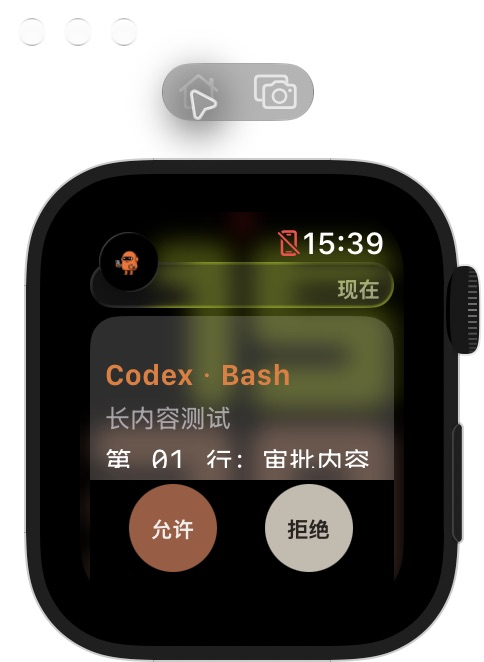
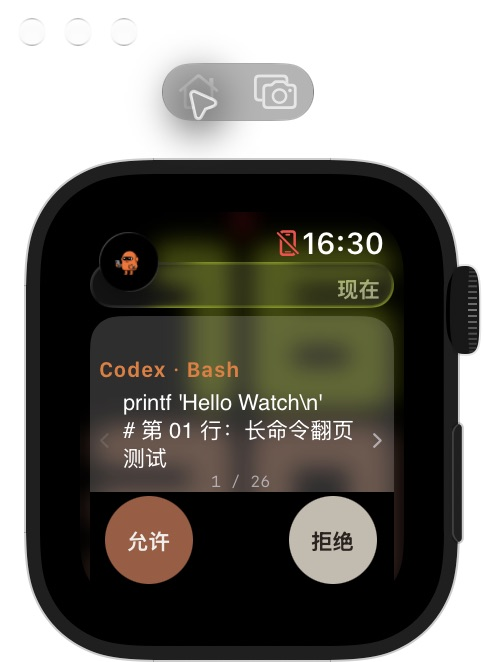
fix: page Watch notification details and space approval controls

Changed region(s): [[0.186, 0.5136, 0.8368, 0.9063], [0.5579, 0.3323, 0.7128, 0.3927], [0.7438, 0.3625, 0.8058, 0.3927]]

diff --git a/watch/ClaudeWatch watchOS/Views/ApprovalView.swift b/watch/ClaudeWatch watchOS/Views/ApprovalView.swift
@@ -1,4 +1,5 @@
 import SwiftUI
+import CoreText
 import ClawdWatchCore
 struct ApprovalView: View {
     let card: ApprovalCard
@@ -7,11 +8,37 @@ struct ApprovalView: View {
     var body: some View {
         GeometryReader { geometry in
           ZStack(alignment: .bottom) {
+            if compactNotification {
+                VStack(spacing: 3) {
+                    Text(card.agentName + " · " + card.toolName)
+                        .font(.system(size: 11, weight: .semibold))
+                        .foregroundStyle(Theme.Text.primary)
+                        .lineLimit(1).frame(maxWidth: .infinity, alignment: .leading)
+                    if let result = state.results[card.id] {
+                        VStack(spacing: 2) {
+                            Text(result.status.label).font(.caption2)
+                            if let message = result.message { Text(message).font(.caption2).lineLimit(2) }
+                            if let input = state.pending[card.id] {
+                                Button("查询决定回执") { Task { await state.lookup(input) } }
+                                    .font(.caption2)
+                            }
+                        }.frame(maxWidth: .infinity, maxHeight: .infinity)
+                    } else if !card.isActionable() {
+                        Text(card.desktopReason == nil ? "请求已过期，请刷新。" : "请在桌面处理。")
+                            .font(.caption2).frame(maxWidth: .infinity, maxHeight: .infinity)
+                    } else {
+                        NotificationDetailReader(text: ApprovalDetailText.readable(card.details)
+                            + "\n\n项目 / 会话\n" + (card.projectLabel.isEmpty ? card.sessionLabel : card.projectLabel))
+                            .id(card.id + ":" + card.revision)
+                    }
+                }.frame(width: geometry.size.width, height: max(0, geometry.size.height - 48))
+                 .frame(maxHeight: .infinity, alignment: .top)
+            } else {
             ScrollView {
                 VStack(alignment: .leading, spacing: compactNotification ? 4 : 10) {
                 Text(card.agentName + " · " + card.toolName).font(.caption).bold().foregroundStyle(Theme.Text.primary)
                 Text(card.projectLabel.isEmpty ? card.sessionLabel : card.projectLabel).font(.caption2).foregroundStyle(.secondary)
-                Text(card.details).font(.system(.caption, design: .monospaced)).frame(maxWidth: .infinity, alignment: .leading)
+                Text(ApprovalDetailText.readable(card.details)).font(.system(.caption, design: .monospaced)).frame(maxWidth: .infinity, alignment: .leading)
                 if let result = state.results[card.id] {
                     Text(result.status.label).foregroundStyle(result.status == .delivered ? Theme.Accent.success : Theme.Text.primary)
                     if let message = result.message { Text(message).font(.caption2) }
@@ -25,10 +52,13 @@ struct ApprovalView: View {
             }.frame(width: geometry.size.width, height: max(0, geometry.size.height - 54))
              .clipped()
              .frame(maxHeight: .infinity, alignment: .top)
-            HStack(spacing: 24) {
+            }
+            HStack {
                 decisionButton("允许", decision: .allow, color: Theme.DecisionButton.allow)
+                Spacer(minLength: 8)
                 decisionButton("拒绝", decision: .deny, color: Theme.DecisionButton.deny)
             }
+            .padding(.horizontal, 3)
             .padding(.vertical, 2)
             .frame(maxWidth: .infinity)
             .background(.black)
@@ -49,6 +79,58 @@ struct ApprovalView: View {
         .accessibilityLabel(decision == .allow ? "允许一次" : "拒绝")
         .disabled(!card.isActionable() || state.results[card.id] != nil)
         .opacity(card.isActionable() && state.results[card.id] == nil ? 1 : 0.4)
+    }
+}
+
+
+/// The system long-look already owns vertical scrolling. Large tap targets avoid
+/// a second competing scroll view and keep the decision controls in place.
+private struct NotificationDetailReader: View {
+    let text: String
+    @State private var page = 0
+    private let font = CTFontCreateWithName("SFMono-Regular" as CFString, 11, nil)
+
+    var body: some View {
+        GeometryReader { geometry in
+            let pages = ApprovalDetailText.pages(text, width: max(1, geometry.size.width - 24), linesPerPage: 3) {
+                let attributes = [kCTFontAttributeName as NSAttributedString.Key: font]
+                let line = CTLineCreateWithAttributedString(NSAttributedString(string: $0, attributes: attributes))
+                return CTLineGetTypographicBounds(line, nil, nil, nil)
+            }
+            let current = min(page, pages.count - 1)
+            ZStack {
+                VStack(alignment: .leading, spacing: 0) {
+                    ForEach(Array(pages[current].enumerated()), id: \.offset) { _, line in
+                        Text(line.isEmpty ? " " : line)
+                            .font(.custom(CTFontCopyPostScriptName(font) as String, fixedSize: 11))
+                            .lineLimit(1).frame(maxWidth: .infinity, alignment: .leading)
+                            .frame(height: 14)
+                    }
+                    Spacer(minLength: 0)
+                }.padding(.horizontal, 12).allowsHitTesting(false)
+                HStack(spacing: 0) {
+                    pageButton(symbol: "chevron.left", label: "上一页", enabled: current > 0) {
+                        page = max(0, current - 1)
+                    }
+                    pageButton(symbol: "chevron.right", label: "下一页", enabled: current + 1 < pages.count) {
+                        page = min(pages.count - 1, current + 1)
+                    }
+                }
+                Text("\(current + 1) / \(pages.count)")
+                    .font(.system(size: 8, design: .monospaced)).foregroundStyle(.secondary)
+                    .frame(maxHeight: .infinity, alignment: .bottom).allowsHitTesting(false)
+            }.clipped()
+        }.onChange(of: text) { _, _ in page = 0 }
+    }
+    private func pageButton(symbol: String, label: String, enabled: Bool, action: @escaping () -> Void) -> some View {
+        Button(action: action) {
+            Image(systemName: symbol).font(.system(size: 9, weight: .semibold))
+                .foregroundStyle(.secondary).opacity(enabled ? 1 : 0.2)
+                .frame(maxWidth: .infinity, maxHeight: .infinity,
+                       alignment: symbol == "chevron.left" ? .leading : .trailing)
+                .contentShape(Rectangle())
+        }.buttonStyle(.plain).accessibilityLabel(label)
+         .accessibilityHint("点详情左半边返回，右半边继续")
     }
 }
 
@@ -79,7 +161,7 @@ struct ApprovalNotificationView: View {
             }
           }
         }
-        .frame(height: 110)
+        .frame(height: 116)
         .task(id: requestID) { await load() }
     }
     @MainActor private func load() async {

diff --git a/watch/Packages/ClawdWatchCore/Tests/ClawdWatchCoreTests/ApprovalDetailTextTests.swift b/watch/Packages/ClawdWatchCore/Tests/ClawdWatchCoreTests/ApprovalDetailTextTests.swift
@@ -1,0 +1,43 @@
+import XCTest
+@testable import ClawdWatchCore
+
+final class ApprovalDetailTextTests: XCTestCase {
+    func testCommandIsReadableFirstAndOriginalParametersRemainIntact() {
+        let raw = #"{"command":"printf 'hello\nworld'","cwd":"/tmp/demo","timeout":1000}"#
+        let text = ApprovalDetailText.readable(raw)
+        XCTAssertTrue(text.hasPrefix("printf 'hello\nworld'"))
+        XCTAssertTrue(text.hasSuffix(raw))
+        XCTAssertTrue(text.contains("完整参数"))
+    }
+
+    func testUnknownAndNonCommandInputStayExactlyAsReceived() {
+        for raw in ["{\n  \"file_path\": \"/tmp/demo\"\n}", "invalid { JSON", "plain\ntext", "", "[1,2]"] {
+            XCTAssertEqual(ApprovalDetailText.readable(raw), raw)
+        }
+    }
+
+    func testPagingDoesNotLoseLongCommandCharactersOrSplitEmoji() {
+        let input = "abcdefghijk👨👩👧👦审批xyz"
+        let pages = ApprovalDetailText.pages(input, width: 5, linesPerPage: 2) { Double($0.count) }
+        XCTAssertEqual(pages.flatMap { $0 }.joined(), input)
+        XCTAssertTrue(pages.allSatisfy { $0.count <= 2 })
+        XCTAssertTrue(pages.flatMap { $0 }.allSatisfy { $0.count <= 5 })
+        XCTAssertEqual(pages[1], ["k👨👩👧👦审批x", "yz"])
+    }
+
+    func testMeasuredWideCharactersWrapWithoutClippingOrDroppingBlankLines() {
+        let pages = ApprovalDetailText.pages("ab中d\n\n末尾\n", width: 3, linesPerPage: 2) { text in
+            text.reduce(0) { $0 + ($1.isASCII ? 1 : 2) }
+        }
+        XCTAssertEqual(pages, [["ab", "中d"], ["", "末"], ["尾", ""]])
+    }
+
+    func testEmptyOrExtremelyNarrowViewportStillHasAUsablePage() {
+        XCTAssertEqual(ApprovalDetailText.pages("", width: 0, linesPerPage: 0) { _ in 10 }, [[""]])
+        XCTAssertEqual(ApprovalDetailText.pages("中a", width: 1, linesPerPage: 1) { _ in 10 }, [["中"], ["a"]])
+    }
+}
+
+private extension Character {
+    var isASCII: Bool { unicodeScalars.allSatisfy { $0.isASCII } }
+}

diff --git a/watch/Packages/ClawdWatchCore/Sources/ClawdWatchCore/ApprovalDetailText.swift b/watch/Packages/ClawdWatchCore/Sources/ClawdWatchCore/ApprovalDetailText.swift
@@ -1,0 +1,32 @@
+import Foundation
+
+public enum ApprovalDetailText {
+    /// Show a shell command before the JSON envelope, while keeping every original parameter.
+    public static func readable(_ raw: String) -> String {
+        guard let data = raw.data(using: .utf8),
+              let object = try? JSONSerialization.jsonObject(with: data) as? [String: Any],
+              let command = object["command"] as? String, !command.isEmpty else { return raw }
+        return command + "\n\n完整参数\n" + raw
+    }
+
+    /// Wrap by the actual font measurement. Never split a grapheme or discard whitespace.
+    public static func pages(_ text: String, width: Double, linesPerPage: Int,
+                             measure: (String) -> Double) -> [[String]] {
+        var lines: [String] = []
+        for logicalLine in text.components(separatedBy: "\n") {
+            var line = ""
+            for character in logicalLine {
+                let next = line + String(character)
+                if !line.isEmpty && measure(next) > max(0, width) {
+                    lines.append(line)
+                    line = String(character)
+                } else { line = next }
+            }
+            lines.append(line)
+        }
+        let count = max(1, linesPerPage)
+        return stride(from: 0, to: lines.count, by: count).map {
+            Array(lines[$0..<min($0 + count, lines.count)])
+        }
+    }
+}

diff --git a/scripts/prepare-watch-layout-fixture.py b/scripts/prepare-watch-layout-fixture.py
@@ -19,8 +19,11 @@ card = {
     "agentId": "codex", "sessionLabel": "布局验证", "projectLabel": "长内容测试",
     "toolName": "Bash", "createdAtMs": 1000, "expiresAtMs": 9999999999999,
     "canDecide": True, "details": "\n".join(
-        [f"第 {i:02} 行：审批内容可以独立滚动。" for i in range(1, 41)] + ["内容末尾：固定按钮仍应可见"])
+        [f"第 {i:02} 行：审批内容可以完整阅读。" for i in range(1, 41)] + ["内容末尾：固定按钮仍应可见"])
 }
+if "--notification" in sys.argv:
+    card["details"] = json.dumps({"command": "printf 'Hello Watch\\n'\n" + "\n".join(
+        f"# 第 {i:02} 行：长命令翻页测试" for i in range(1, 21)), "cwd": "/tmp/demo", "timeout": 1000}, ensure_ascii=False, indent=2)
 literal = json.dumps(json.dumps(card, ensure_ascii=False), ensure_ascii=False)
 entry = '''@main
 struct ClaudeWatchWatchApp: App {

diff --git a/README.md b/README.md
@@ -11,7 +11,7 @@ Standalone Apple Watch approvals for Codex, Claude Code, DeepSeek Harness and Ki
 - Codex、Claude Code、DeepSeek Harness（DSH）、Kimi 审批接入。
 - Watch-only App；联网后直接连接 Mac，不依赖 iPhone 作为审批中继。
 - App 内审批详情可滚动，允许和拒绝圆按钮固定在底部。
-- 抬腕通知可以直接显示详情和审批按钮。系统通知及专注模式设置会影响展示。
+- 抬腕通知可以直接显示命令和审批按钮。长内容点详情区右半边翻到下一页、左半边返回，页码显示阅读进度；允许和拒绝圆按钮分列两侧。系统通知及专注模式设置会影响展示。
 - 每台设备独立配对凭据，手表凭据保存在 Keychain；请求有版本和过期时间。
 - 决定有 operation ID 和交付回执；响应丢失后查询同一决定，避免重复提交。
 - 推送仅带通用提示、请求 ID 和版本；命令详情通过鉴权连接读取。
@@ -134,7 +134,7 @@ cd build/clawd-on-desk
 npm test
 ```
 
-已在 Apple Watch 实机验证配对、Codex 审批回执、抬腕显示审批按钮和配色；真实 Claude 单次 Bash 测试也成功执行。四种 agent 的完整允许/拒绝矩阵、通知内长内容滚动及手机关闭后的纯蜂窝全过程仍需分别验收。模拟器截图使用离线样例，不包含真实审批内容。
+已在 Apple Watch 实机验证配对、Codex 审批回执、抬腕显示审批按钮和配色；真实 Claude 单次 Bash 测试也成功执行。四种 agent 的完整允许/拒绝矩阵、通知内长内容点按翻页已在 40mm 模拟器系统通知中检查首、中、末页和返回，实机阅读手感及手机关闭后的纯蜂窝全过程仍需分别验收。模拟器截图使用离线样例，不包含真实审批内容。
 
 ## 隐私与安全
 
